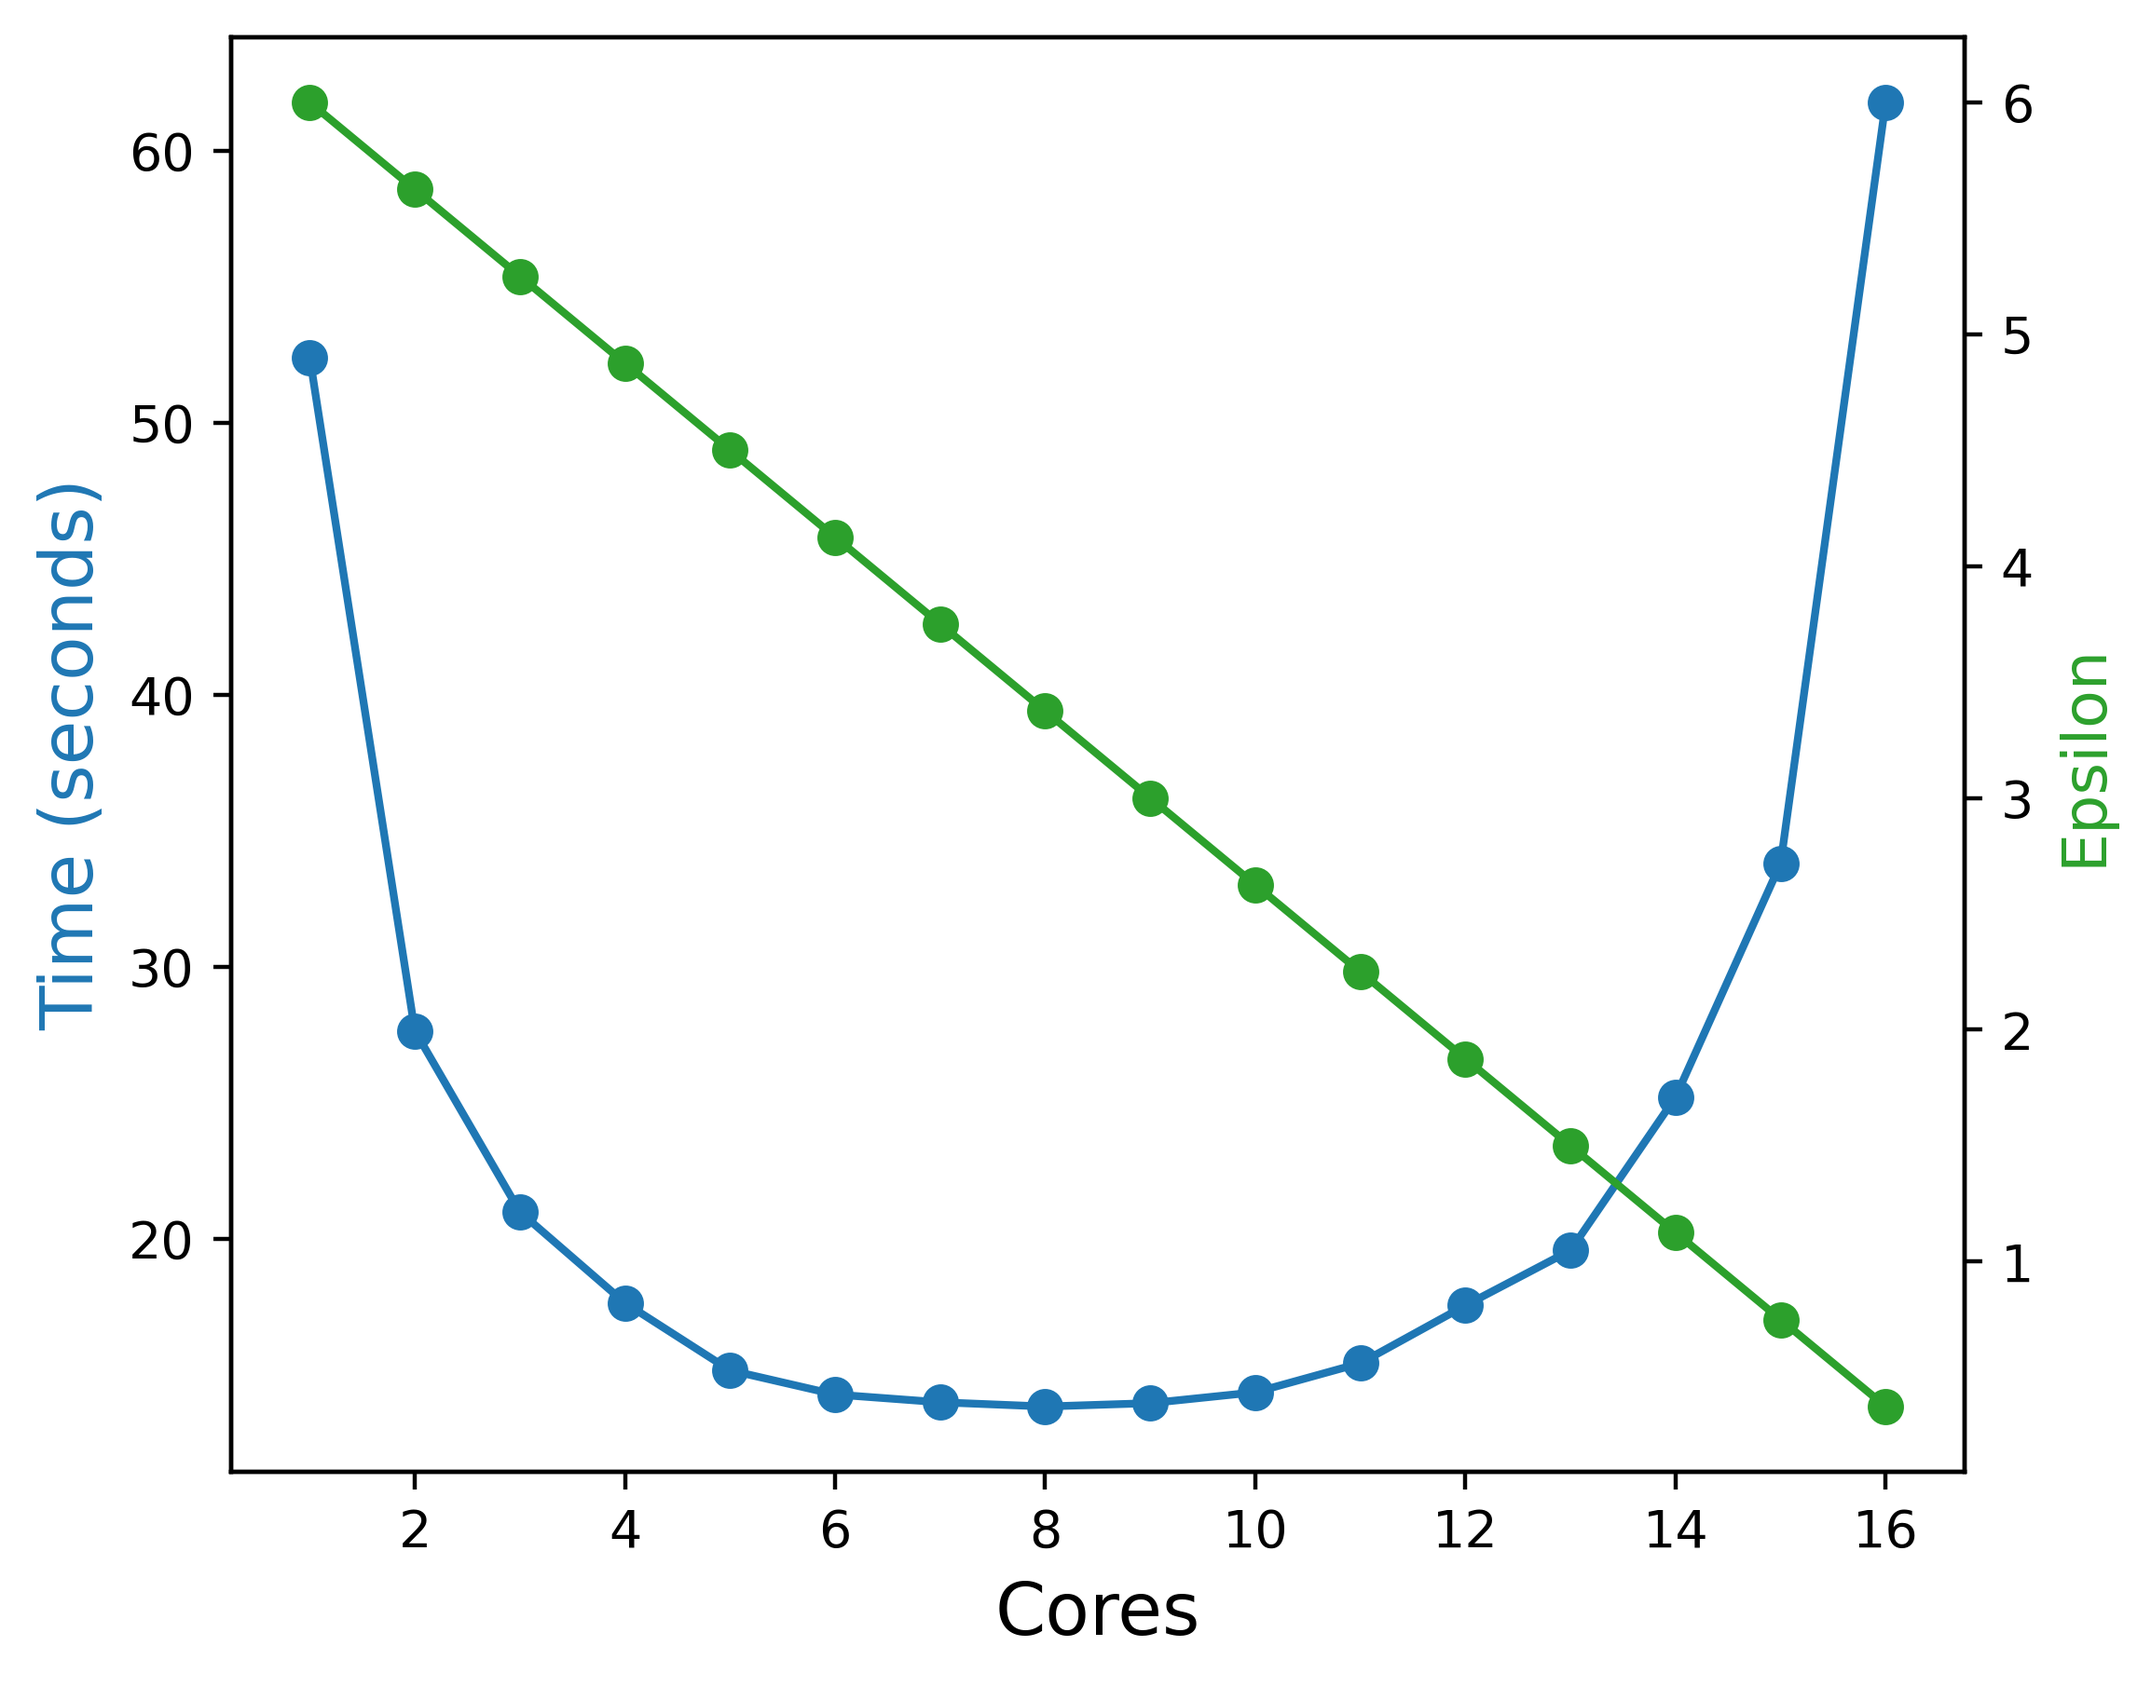
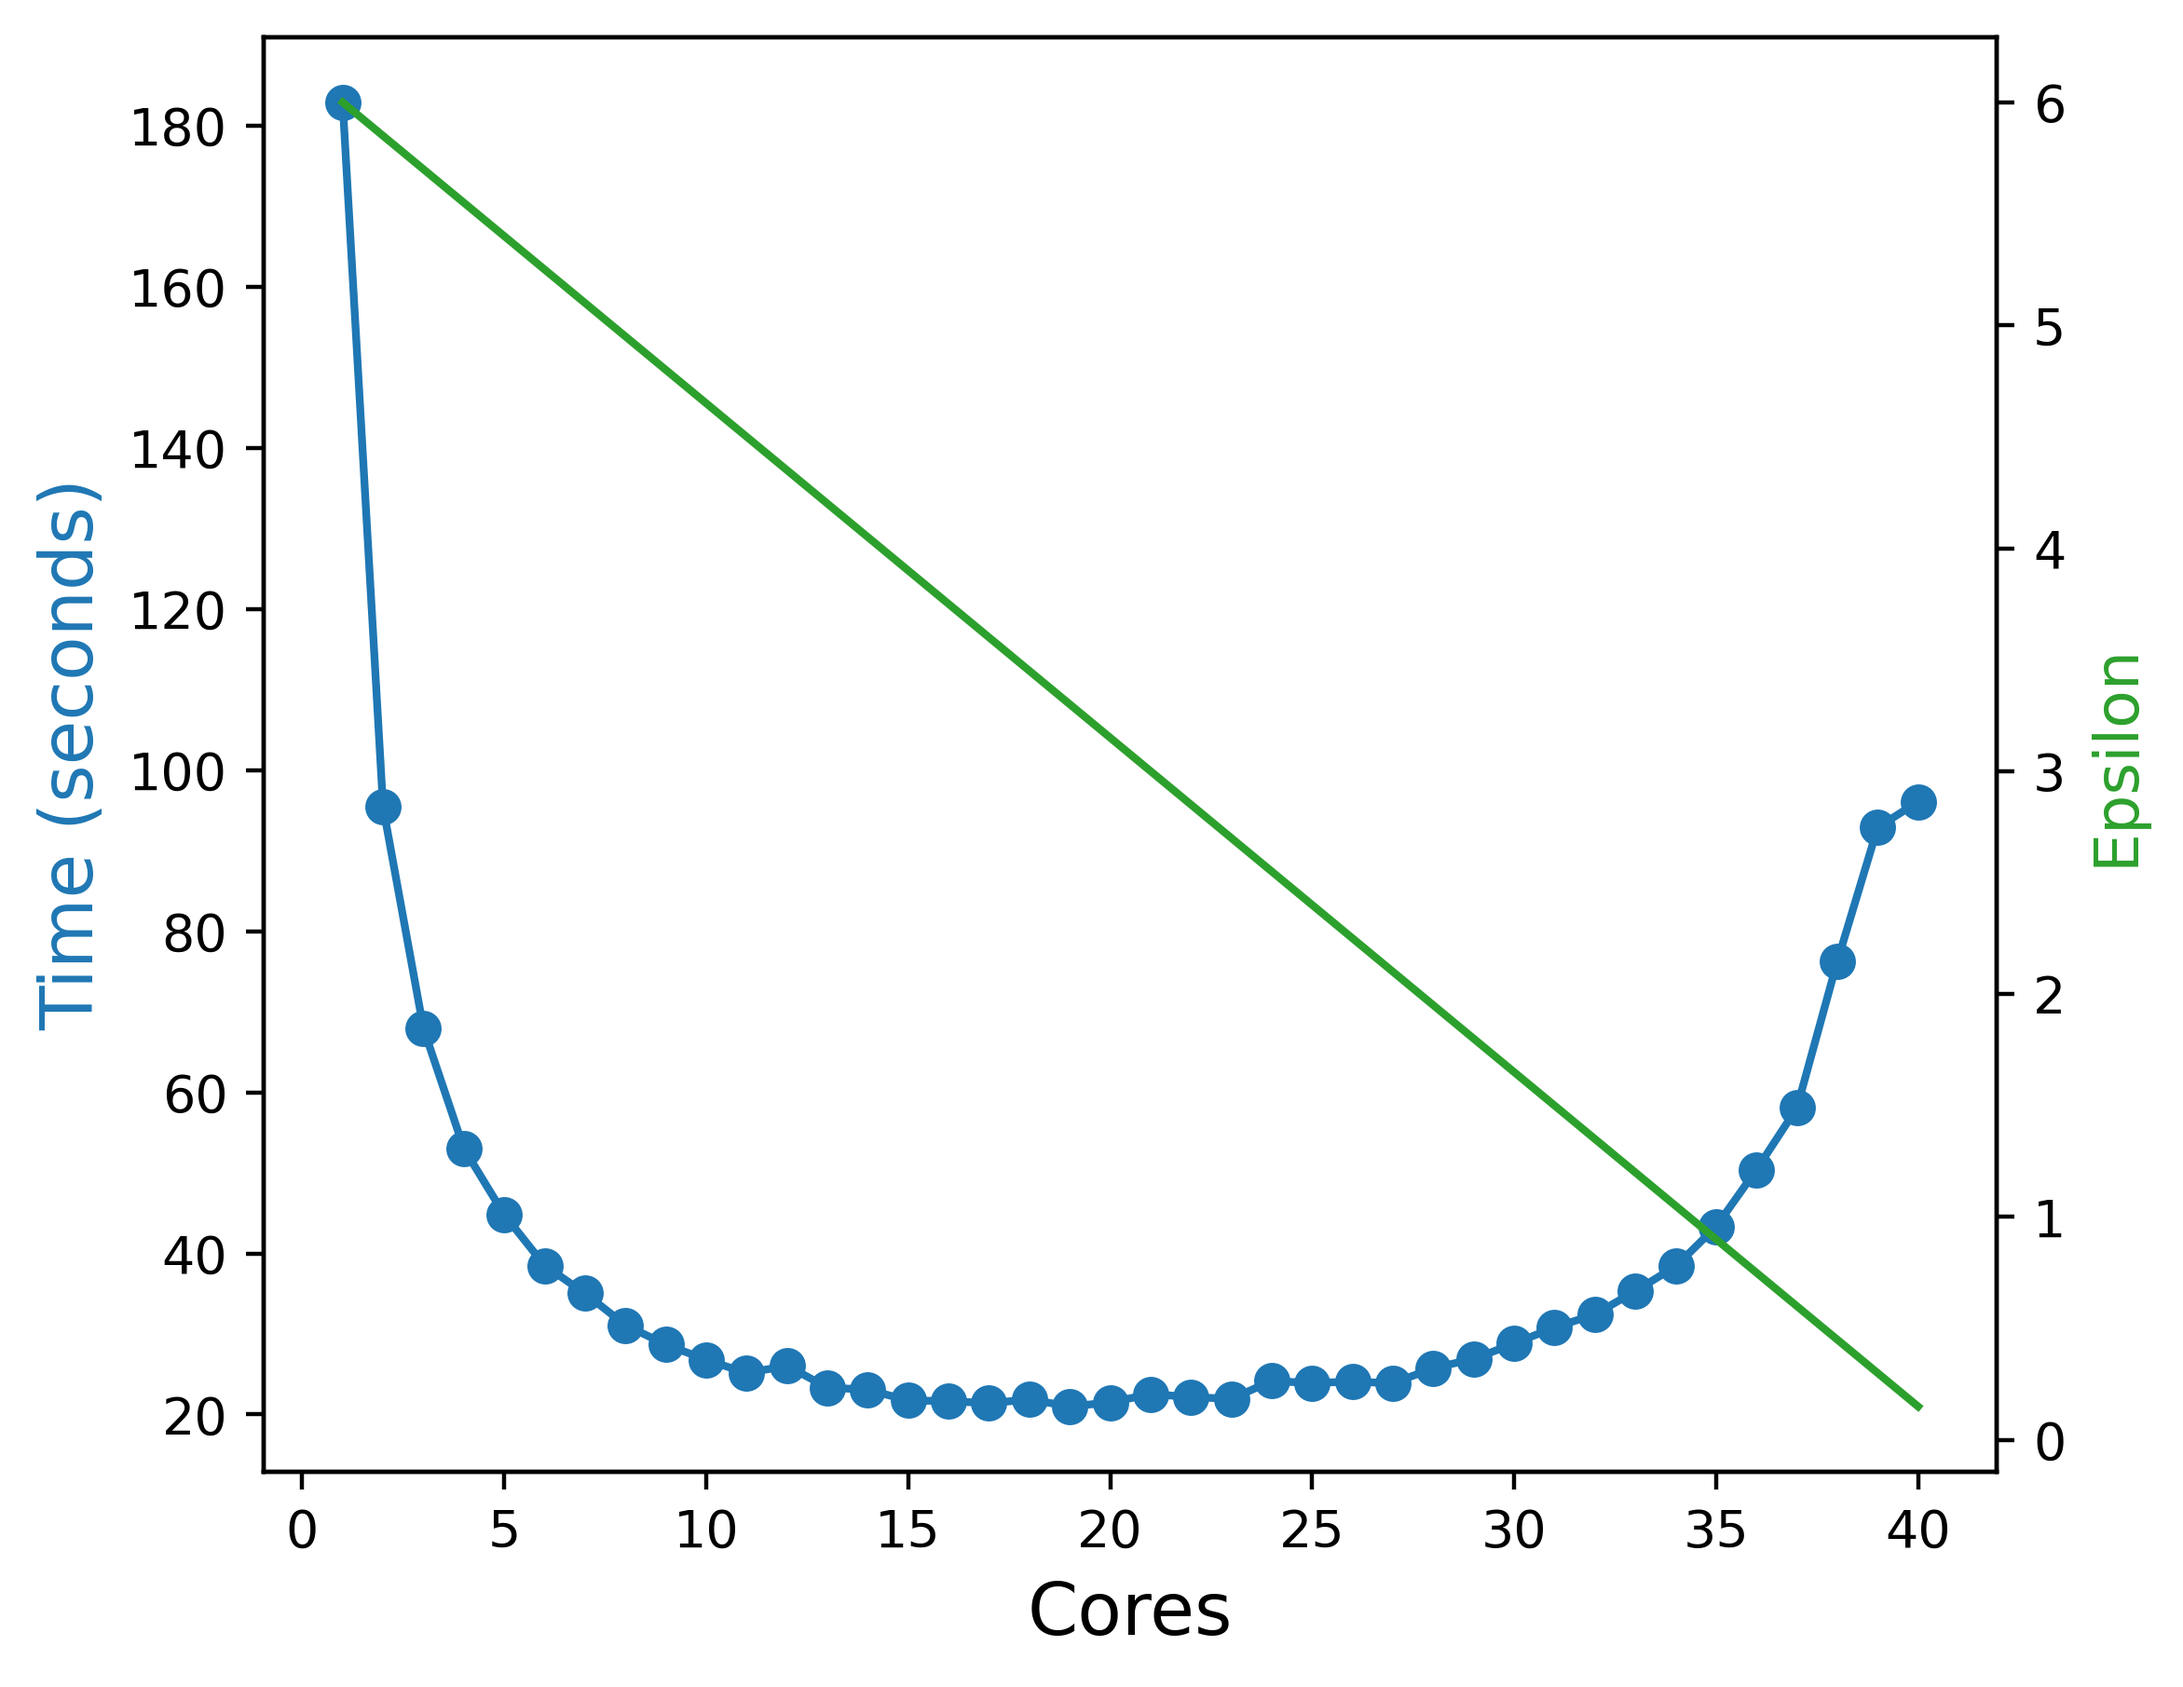
add niagra 40 core runs

diff --git a/manuscript/BHraytracer.tex b/manuscript/BHraytracer.tex
@@ -169,8 +169,7 @@ We believe though, that the main parameters of interest are number of rendered p
   \centering
  \begin{minipage}{0.45\linewidth}
   \includegraphics[width=\linewidth]{figs/mpi_weak2.out}
- \caption{Weak scaling analysis where MPI process count and image width are increased in tandem
-	 -- \CMT{the lines are very close to each other and it is even hard to distinguish them, for visual aids I'd suggest to make one with dashed lines or thicker than the other one so the differences are clearer} }
+ \caption{Weak scaling analysis where MPI process count and image width are increased in tandem  }
 	  \Description{As core count and image width increase linearly, time increases linearly }
     \label{fig:mpi_weak2}
     \end{minipage}
@@ -226,7 +225,7 @@ From Figures ~\ref{fig:omp_weak2} and ~\ref{fig:mpi_weak2}, one can see that, at
   \hspace{.05\linewidth}
  \begin{minipage}{0.45\linewidth}
   \includegraphics[width=\linewidth]{figs/mpi_strong_multinode.out}
-  \caption{\TODO{Fix x-label cores}Multi-node run with 4 omp threads}
+  \caption{Multi-node run with 4 omp threads per node}
     \Description{Weak scaling analysis relating mpi process count, time required for computation, and image width}
     \label{fig:mpi_strong_multinode}
     \end{minipage}
